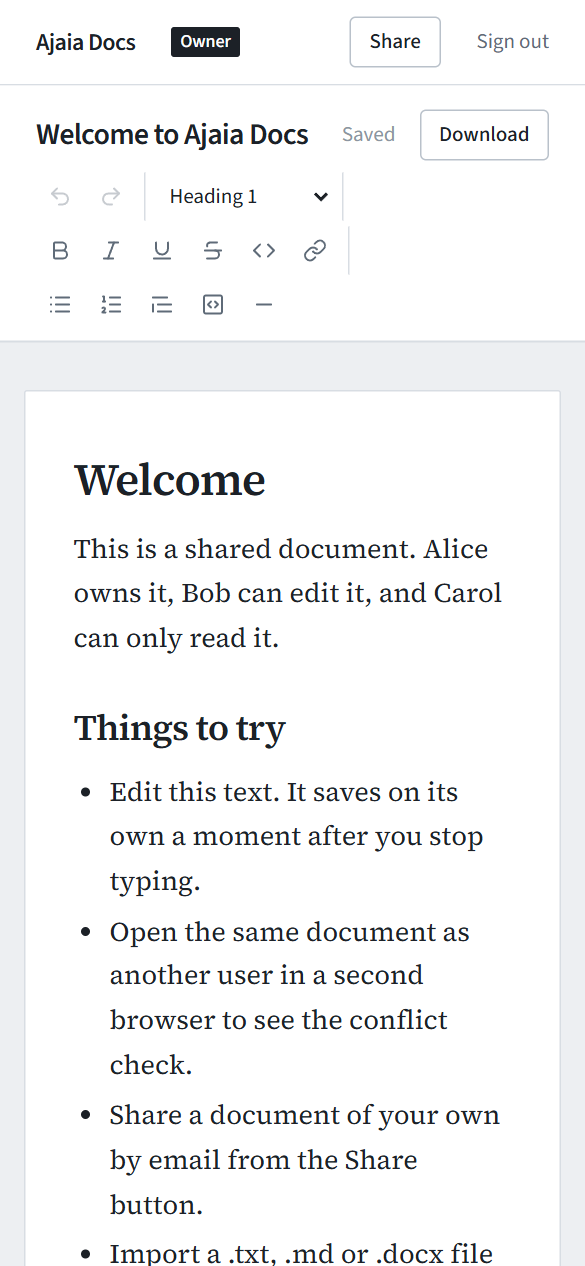
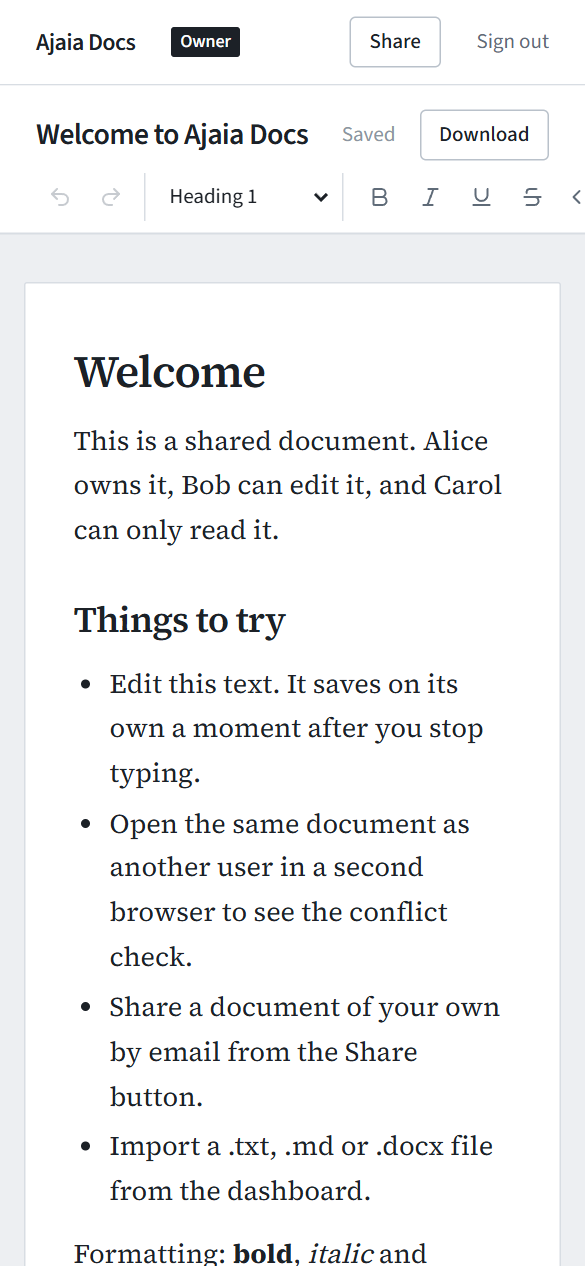
polish: scrollable single-row toolbar on phones; refresh screenshots

diff --git a/src/components/editor/Toolbar.tsx b/src/components/editor/Toolbar.tsx
@@ -101,7 +101,7 @@ export function Toolbar({ editor }: { editor: Editor }) {
 
   return (
     <div className="relative">
-      <div role="toolbar" aria-label="Formatting" className="flex flex-wrap items-center gap-x-1 gap-y-1">
+      <div role="toolbar" aria-label="Formatting" className="no-scrollbar -mx-6 flex items-center gap-x-1 overflow-x-auto px-6 sm:mx-0 sm:flex-wrap sm:gap-y-1 sm:overflow-visible sm:px-0">
         <Group>
           {HISTORY.map((item) => (
             <IconButton key={item.title} item={item} state={state} editor={editor} />
@@ -172,7 +172,7 @@ export function Toolbar({ editor }: { editor: Editor }) {
 
 function Group({ children, last }: { children: React.ReactNode; last?: boolean }) {
   return (
-    <div className={`flex items-center gap-0.5 ${last ? "" : "mr-1 border-r border-line pr-1.5"}`}>{children}</div>
+    <div className={`flex shrink-0 items-center gap-0.5 ${last ? "" : "mr-1 border-r border-line pr-1.5"}`}>{children}</div>
   );
 }
 

diff --git a/src/app/globals.css b/src/app/globals.css
@@ -78,6 +78,13 @@
   @apply pointer-events-none float-left h-0 text-ink-faint;
 }
 
+.no-scrollbar {
+  scrollbar-width: none;
+}
+.no-scrollbar::-webkit-scrollbar {
+  display: none;
+}
+
 @media print {
   html {
     background: #fff;

diff --git a/AI_LOG.md b/AI_LOG.md
@@ -26,3 +26,4 @@ Format: `time | step | accepted/changed/rejected | note`
 - 03:50 | step 6 | accepted | Vitest: access matrix (4 roles x 4 permissions), import conversion (md nodes/marks, txt escaping and breaks, 415/413 rejections, title derivation), service flow on in-memory PGlite (Alice shares with Bob as viewer -> Bob reads, update forbidden, Carol not found; upgrade/remove/delete; 409 on stale base; JSON round-trip), Markdown export. 29 tests green on first run.
 - 04:10 | polish | changed | User judged the toolbar thin and the UI "clean but not top notch"; Claude agreed and listed gaps. Pass done: lucide icon toolbar with text-style select, enabled StarterKit strike/code/code block/quote/rule + link popover, Markdown export and import tests extended for them, word count, Source Serif 4 for the document body (UI stays sans), inline delete confirm instead of window.confirm, always-visible row actions (touch), loading skeletons, error page, favicon, mobile header fixes.
 - 04:10 | polish | rejected | Tables, images, colours and alignment left out: different tier of work, not reachable in the remaining time.
+- 04:45 | responsive | accepted | Audited login, dashboard, editor, share dialog, download menu, link popover and viewer at 360/390/768 px with headless Edge: no horizontal overflow anywhere. Changed the toolbar to a single horizontally scrollable row below the sm breakpoint so the sticky header stops eating a third of a phone screen.
